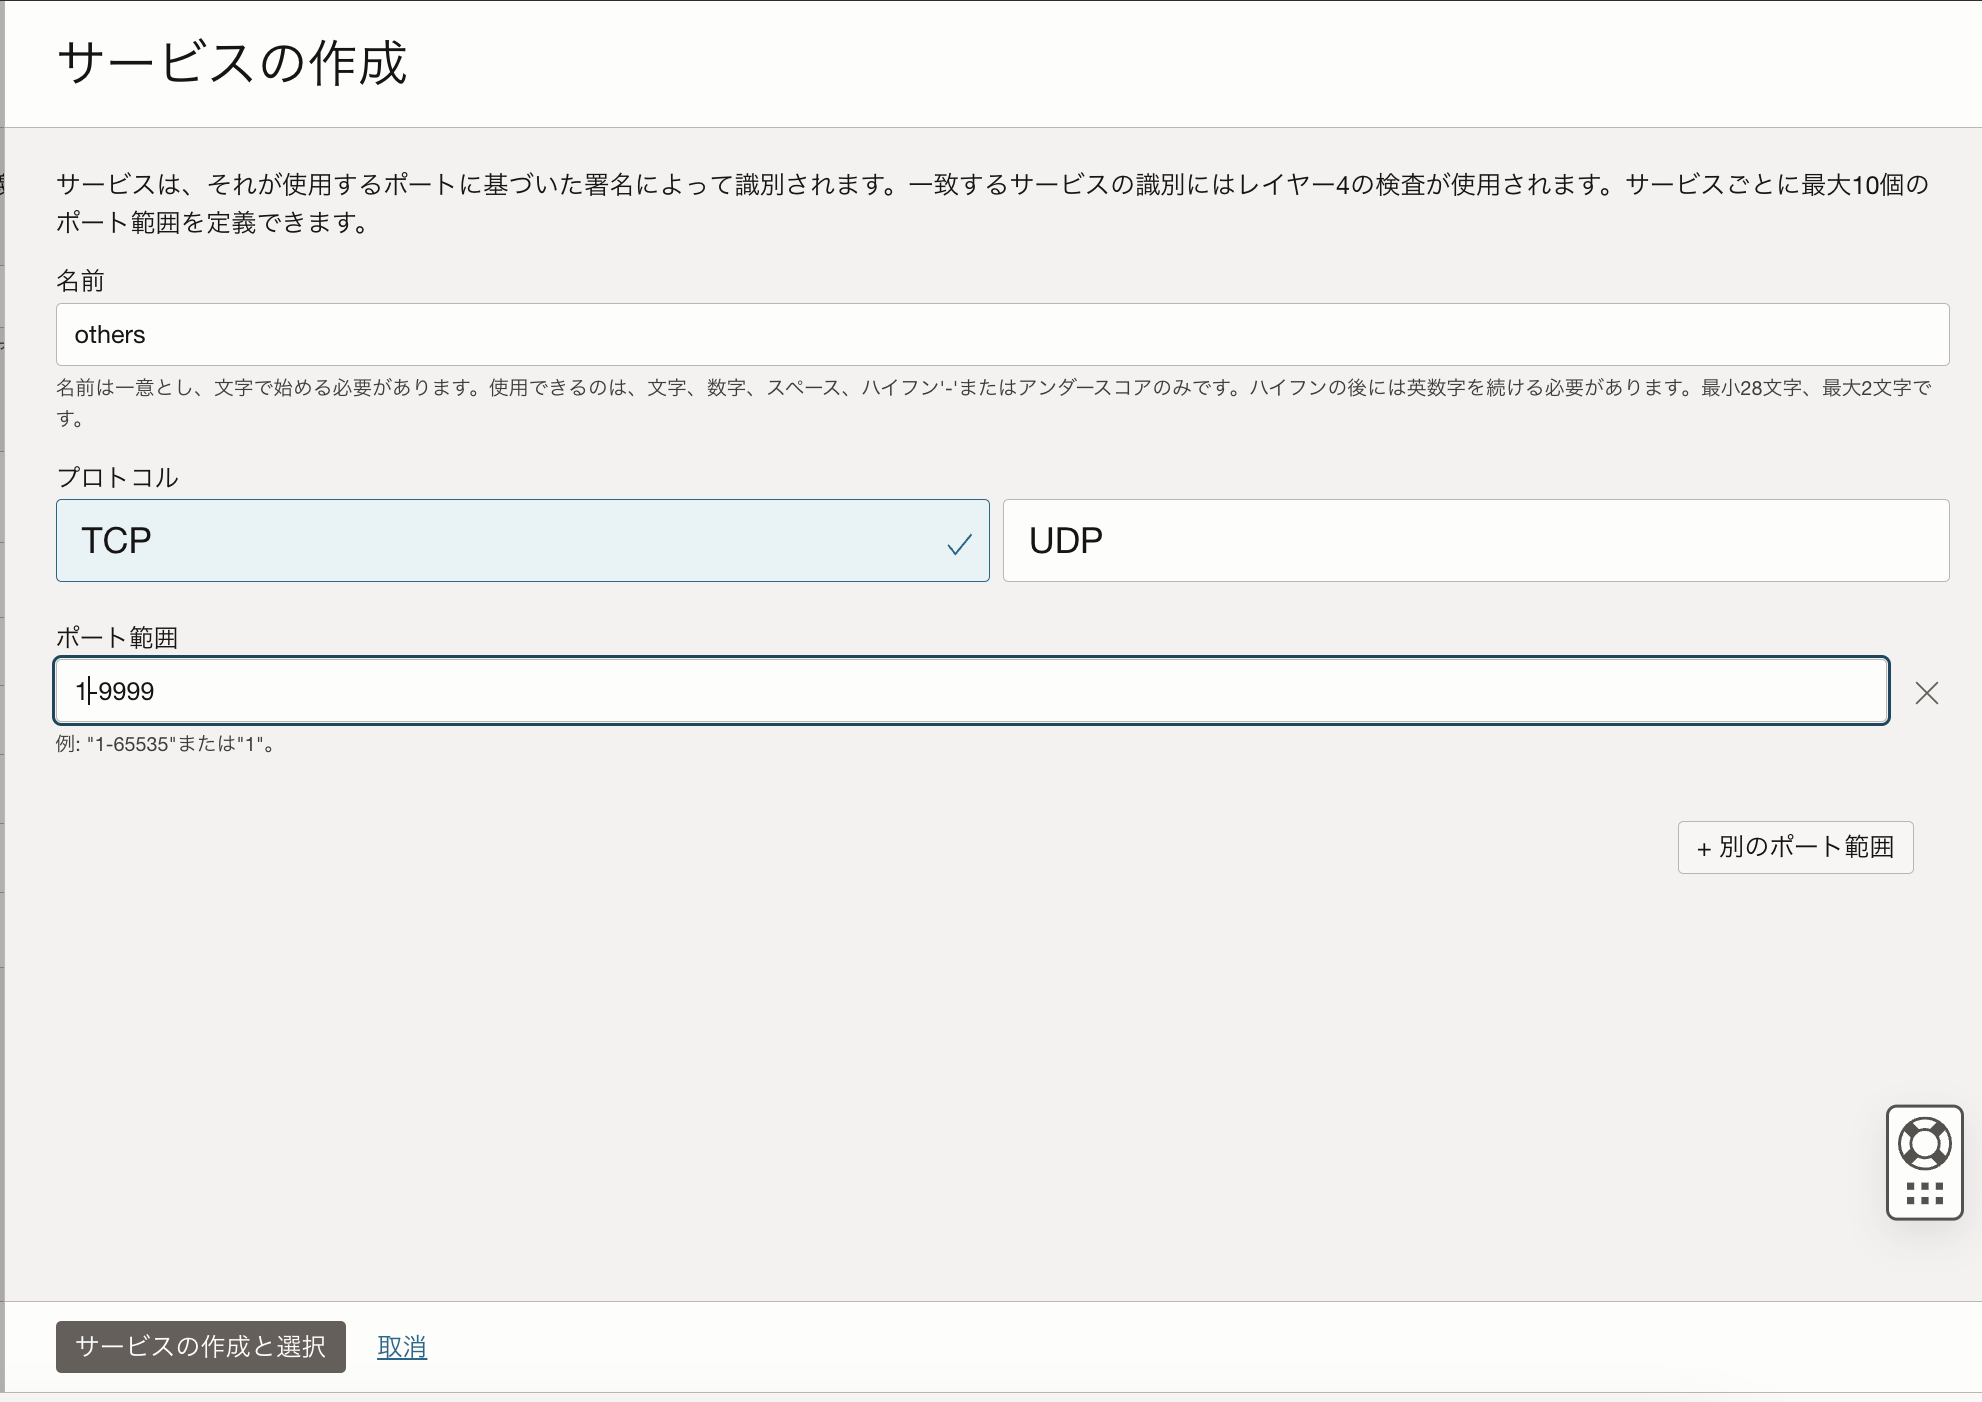
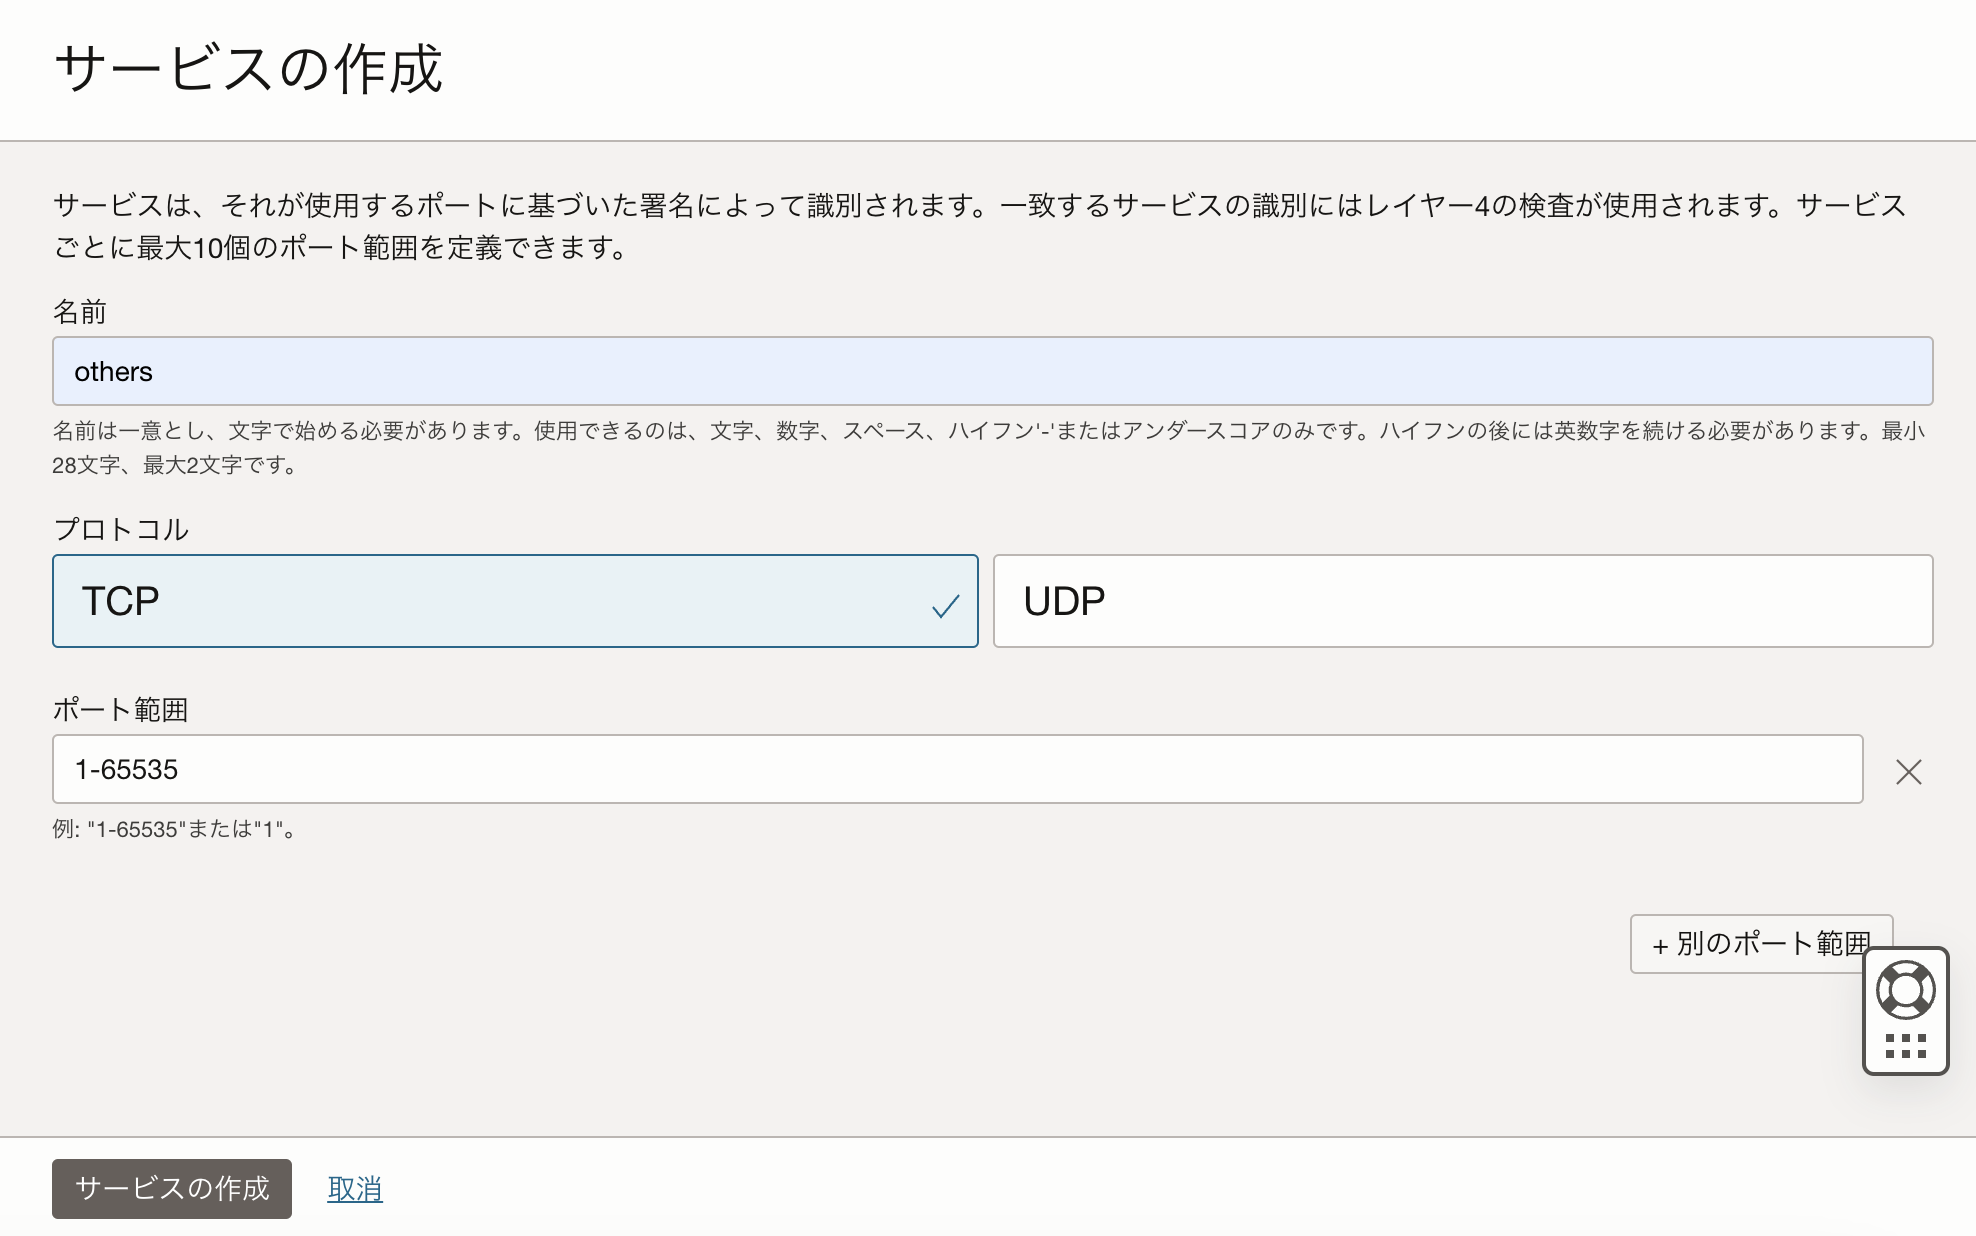
セキュリティ編「NFWのIDS/IPSを検証する」を修正しました。

diff --git a/tutorials/_id-security/networkfirewall-ips.md b/tutorials/_id-security/networkfirewall-ips.md
@@ -1,5 +1,5 @@
 ---
-title: "OCI Network FirewallのIPS/IDS機能を検証する"
+title: "OCI Network FirewallのIDS/IPS機能を検証する"
 excerpt: "本チュートリアルは「OCI Network Firewallを構築する」の続編として、IDS/IPS機能の動作確認を行います"
 order: "120"
 layout: single
@@ -13,9 +13,9 @@ header:
 ---
 
 パロアルトネットワークスの次世代ファイアウォール技術を基に構築されたOCIクラウドネイティブのマネージド・ファイアウォール「OCI Network Firewall」が2022年7月にリリースされました。「OCI Network Firewall」はURLフィルタリングやTSL/SSL検査などの機能を提供します。
-本チュートリアルは[OCI Network Firewallを構築する](https://oracle-japan.github.io/ocitutorials/intermediates/networkfirewall/)の続編として、IPS/IDSの設定および動作を確認します。
+本チュートリアルは[OCI Network Firewallを構築する](https://oracle-japan.github.io/ocitutorials/intermediates/networkfirewall/)の続編として、IDS/IPSの設定および動作を確認します。
 
-IPS/IDSの動作検証には、Kali LinuxのツールおよびEicarファイルを使用します。
+IDS/IPSの動作検証には、Kali LinuxのツールおよびEicarファイルを使用します。
 Kali Linuxでは、Network Firewallインスタンスに保護されたWindowsのコンピュートインスタンスに侵入テストを実施します。
 Eicarファイルを使用する際は、Network Firewallインスタンスに保護されたLinuxのコンピュートインスタンスにWebサーバーを構築し、Webサーバーを使用して動作を検証します。
 
@@ -76,7 +76,7 @@ OCIチュートリアル[OCI Network Firewallを構築する](https://oracle-jap
 
 + **`名前`** - 任意 例）others
 + **`プロトコル`** - TCP
-+ **`ポート範囲`** - 1-9999
++ **`ポート範囲`** - 1-65535
  
  ![画面ショット46](nfwips46.png)
 
